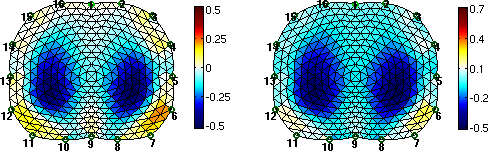
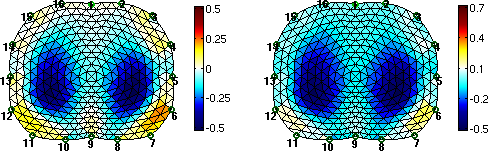
EIDORS colours for lungs
git-svn-id: svn+ssh://svn.code.sf.net/p/eidors3d/code/trunk@2076 82006732-fb7e-4a22-9f28-86a212cce563

diff --git a/htdocs/tutorial/data_structures/eidors_colours07.m b/htdocs/tutorial/data_structures/eidors_colours07.m
@@ -1,0 +1,23 @@
+% Show lung images $Id$
+img = inv_solve(imdl, zc_resp(:,1), zc_resp(:,20));
+img.calc_colours.ref_level= 0;
+img.calc_colours.cb_shrink_move = [0.5,0.8,.02];
+
+clf;
+subplot(221);
+
+img.calc_colours.greylev = 0.01;
+show_fem(img,[1,1]);
+axis equal; axis off; print -r75 -dpng eidors_colours07a.png
+
+img.calc_colours.greylev =  0.3;
+show_fem(img,[1,1]);
+axis equal; axis off; print -r75 -dpng eidors_colours07b.png
+
+img.calc_colours.greylev = -0.01;
+show_fem(img,[1,1]);
+axis equal; axis off; print -r75 -dpng eidors_colours07c.png
+
+img.calc_colours.cmap_type = 'draeger';
+show_fem(img,[1,1]);
+axis equal; axis off; print -r75 -dpng eidors_colours07d.png
